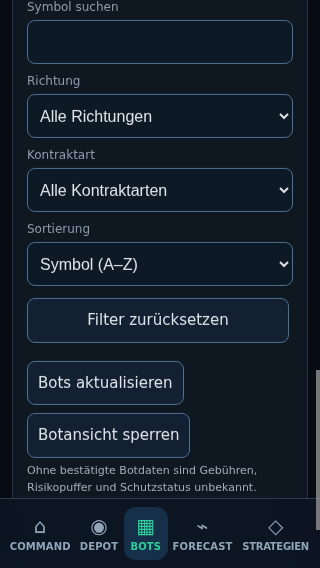
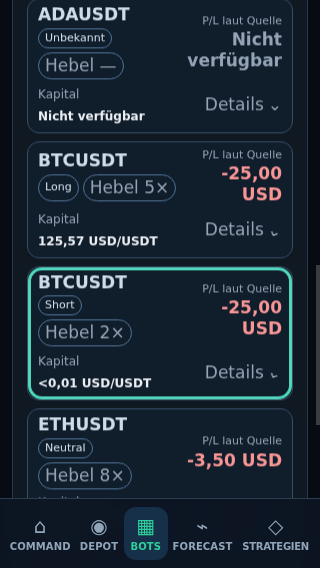
Fix narrow Command row wrapping

diff --git a/test/v11-b11-bot-cockpit-chrome.test.js b/test/v11-b11-bot-cockpit-chrome.test.js
@@ -187,6 +187,21 @@ test('V11 B11 actual shell: mixed synthetic snapshot, investigation context and 
           assert.equal(fresh.cards,6);assert.equal(new Set(fresh.ids).size,6);assert.equal(fresh.duplicate,2);
           assert.equal(fresh.count,true);assert.equal(fresh.commandState,'fresh');assert.equal(fresh.lossButtons,3);
           assert.ok(fresh.cardHeights.every(height=>height>=44&&height<=150),JSON.stringify(fresh.cardGeometry));
+          if(size.width===390){
+            const category=await evaluate(`(()=>{
+              const select=document.getElementById('bot-category-filter');
+              const canvas=document.createElement('canvas'),context=canvas.getContext('2d');
+              context.font=getComputedStyle(select).font;
+              return {label:select.labels[0].innerText,value:select.value,
+                text:select.selectedOptions[0].textContent,width:select.getBoundingClientRect().width,
+                textWidth:context.measureText(select.selectedOptions[0].textContent).width,
+                gridColumn:getComputedStyle(select.parentElement).gridColumn};
+            })()`);
+            assert.deepEqual({label:category.label,value:category.value,text:category.text},
+              {label:'Kontraktart',value:'all',text:'Alle Kontraktarten'});
+            assert.ok(category.width>=category.textWidth+40,JSON.stringify(category));
+            assert.equal(category.gridColumn,'1 / -1',JSON.stringify(category));
+          }
           assert.equal(new Set(fresh.referenceLabels).size,6,'duplicate symbols have distinct accessible names');
           assert.equal(fresh.referencesVisible,false,'full references stay out of collapsed visual cards');
           assert.equal(fresh.tinyPositive,'+<0,01 USD');
@@ -197,6 +212,9 @@ test('V11 B11 actual shell: mixed synthetic snapshot, investigation context and 
           const zero=visibleAmounts.find(row=>row.id.endsWith('f'.repeat(20))).text;
           assert.match(zero,/P\/L laut Quelle\s*Nicht verfügbar/);
           assert.doesNotMatch(zero,/0,00 USD/);
+          const missing=visibleAmounts.find(row=>row.id.endsWith('d'.repeat(20))).text;
+          assert.match(missing,/P\/L laut Quelle\s*Nicht verfügbar/);
+          assert.doesNotMatch(missing,/0,00 USD/);
           const pnlContrast=await evaluate(`(()=>{
             const ratio=(foreground,background)=>{
               const channel=value=>{value/=255;return value<=0.04045?value/12.92:((value+0.055)/1.055)**2.4};
@@ -276,7 +294,9 @@ test('V11 B11 actual shell: mixed synthetic snapshot, investigation context and 
           }
           if(evidence){
             mkdirSync(evidence,{recursive:true});
-            await evaluate("document.querySelector('.bot-overview-filters').scrollIntoView({block:'start'})");
+            await evaluate("document.querySelector('#bot-read-root .bot-card').scrollIntoView({block:'start'})");
+            assert.ok(await evaluate(`[...document.querySelectorAll('#bot-read-root .bot-card')]
+              .filter(card=>{const rect=card.getBoundingClientRect();return rect.top<innerHeight&&rect.bottom>0}).length>0`));
             const image=await call('Page.captureScreenshot',{format:'png',captureBeyondViewport:false});
             writeFileSync(join(evidence,`v11-bot-compact-${size.width}x${size.height}-bots.png`),
               Buffer.from(image.data,'base64'));
@@ -365,10 +385,19 @@ test('V11 B11 actual shell: mixed synthetic snapshot, investigation context and 
             const root=document.getElementById('command-bot-overview');
             const rows=[...root.querySelectorAll('.command-bot-row')];
             return {overflow:document.documentElement.scrollWidth>innerWidth+1,
+              identities:rows.map(row=>{
+                const identity=row.firstElementChild.firstElementChild,range=document.createRange();
+                range.selectNodeContents(identity);
+                return {text:identity.innerText,width:identity.getBoundingClientRect().width,
+                  lines:range.getClientRects().length};
+              }),
               rowHeights:rows.map(row=>row.getBoundingClientRect().height),
               actionHeights:[...root.querySelectorAll('button,summary')].map(node=>node.getBoundingClientRect().height)};
           })()`);
           assert.equal(commandLayout.overflow,false,JSON.stringify(commandLayout));
+          if(size.width===320)assert.ok(commandLayout.identities.every(identity=>
+            identity.text.includes(' · ')&&identity.width>=160&&identity.lines<=2),
+            JSON.stringify(commandLayout.identities));
           assert.ok(commandLayout.actionHeights.every(height=>height>=43.99),JSON.stringify(commandLayout));
           let commandLargeText=null;
           if(size.width===320){
@@ -381,13 +410,27 @@ test('V11 B11 actual shell: mixed synthetic snapshot, investigation context and 
               });
               const rows=[...root.querySelectorAll('.command-bot-row')];
               return {overflow:document.documentElement.scrollWidth>innerWidth+1,
-                overlap:rows.some(row=>row.firstElementChild.getBoundingClientRect().right>
-                  row.lastElementChild.getBoundingClientRect().left+1),
+                overlap:rows.some(row=>{
+                  const button=row.firstElementChild.getBoundingClientRect();
+                  const details=row.lastElementChild.getBoundingClientRect();
+                  return button.left<details.right-1&&button.right>details.left+1&&
+                    button.top<details.bottom-1&&button.bottom>details.top+1;
+                }),
+                identities:rows.map(row=>{
+                  const identity=row.firstElementChild.firstElementChild,range=document.createRange();
+                  range.selectNodeContents(identity);
+                  return {text:identity.innerText,width:identity.getBoundingClientRect().width,
+                    lines:range.getClientRects().length,detailsTop:row.lastElementChild.getBoundingClientRect().top,
+                    buttonBottom:row.firstElementChild.getBoundingClientRect().bottom};
+                }),
                 rowHeights:rows.map(row=>row.getBoundingClientRect().height),
                 actionHeights:[...root.querySelectorAll('button,summary')].map(node=>node.getBoundingClientRect().height)};
             })()`);
             assert.equal(commandLargeText.overflow,false,JSON.stringify(commandLargeText));
             assert.equal(commandLargeText.overlap,false,JSON.stringify(commandLargeText));
+            assert.ok(commandLargeText.identities.every(identity=>identity.text.includes(' · ')&&
+               identity.width>=160&&identity.lines<=2&&identity.detailsTop>=identity.buttonBottom-1),
+               JSON.stringify(commandLargeText.identities));
             assert.ok(commandLargeText.actionHeights.every(height=>height>=43.99),JSON.stringify(commandLargeText));
           }
           if(evidence&&commandLargeText){

diff --git a/v11/index.html b/v11/index.html
@@ -230,6 +230,8 @@
     .command-bot-details{margin:0;border-radius:8px}
     .command-bot-overview .command-bot-details>summary{min-width:44px;white-space:nowrap}
     .command-bot-details p+p{margin-top:5px}
+    @media(min-width:360px) and (max-width:559px){.bot-overview-filters>div:nth-of-type(3){grid-column:1/-1}}
+    @media(max-width:350px){.command-bot-row{grid-template-columns:minmax(0,1fr)}.command-bot-overview .command-bot-jump{display:grid;grid-template-columns:minmax(0,1fr);justify-content:stretch;align-items:start}.command-bot-overview .command-bot-jump>span:first-child{min-width:0;overflow-wrap:normal;word-break:normal}.command-bot-pnl{max-width:100%;overflow-wrap:normal}}
     #app[hidden],#app-access-gate[hidden]{display:none!important}
     .app-access-gate{min-height:100vh;min-height:100dvh;display:grid;place-items:center;padding:24px max(16px,env(safe-area-inset-left,0px))}
     .app-access-card{width:min(100%,440px);padding:24px;border:1px solid #39516b;border-radius:18px;background:linear-gradient(160deg,#172337,#111b29);box-shadow:0 12px 30px #00000025}

diff --git a/test/v11-terminal-entry.test.js b/test/v11-terminal-entry.test.js
@@ -433,6 +433,8 @@ const botPresentationCssAfter=`    .bot-read-view .bot-card-list{list-style:none
     .command-bot-details{margin:0;border-radius:8px}
     .command-bot-overview .command-bot-details>summary{min-width:44px;white-space:nowrap}
     .command-bot-details p+p{margin-top:5px}
+    @media(min-width:360px) and (max-width:559px){.bot-overview-filters>div:nth-of-type(3){grid-column:1/-1}}
+    @media(max-width:350px){.command-bot-row{grid-template-columns:minmax(0,1fr)}.command-bot-overview .command-bot-jump{display:grid;grid-template-columns:minmax(0,1fr);justify-content:stretch;align-items:start}.command-bot-overview .command-bot-jump>span:first-child{min-width:0;overflow-wrap:normal;word-break:normal}.command-bot-pnl{max-width:100%;overflow-wrap:normal}}
 `;
 const botReadControls=`        <div class="bot-access-controls">
           <label for="bot-read-token">Asset-Watch-Link oder Meridian-Lesepasswort</label>

diff --git a/docs/v11/BOT_PRESENTATION_DELIVERY.md b/docs/v11/BOT_PRESENTATION_DELIVERY.md
@@ -10,7 +10,9 @@ count semantics, and read-only behavior are unchanged.
 ## Synthetic visual comparison
 
 Before and after images use the same six-bot synthetic fixture, including
-duplicate BTC symbols, unavailable and zero P/L, and a tiny nonzero P/L.
+duplicate BTC symbols, negative P/L, missing and zero-as-unconfirmed P/L, and a
+tiny nonzero P/L. The refreshed after images show the card list; the original
+before images are unchanged.
 
 | Viewport | Before | After |
 | --- | --- | --- |
@@ -18,6 +20,11 @@ duplicate BTC symbols, unavailable and zero P/L, and a tiny nonzero P/L.
 | 390×844 | [before](evidence/b11-bots-presentation/before-390x844.png) | [after](evidence/b11-bots-presentation/after-390x844.png) |
 
 [After at 320×568 with enlarged text](evidence/b11-bots-presentation/after-320x568-enlarged-text.png)
+
+At 320px, Command rows stack the identity, signed P/L, and native Details
+disclosure. The identity remains on one rendered line at normal and 1.35×
+descendant text sizes; the 390px contract-type filter gives the full selected
+“Alle Kontraktarten” option its own grid row.
 
 The 1.35× browser check scales computed font sizes only on descendants of the
 Bot cards and Command overview; it does not enlarge the whole page or global
@@ -46,10 +53,12 @@ preview remains a draft.
 
 [Command at 320×568 with 1.35× text](evidence/b11-bots-presentation/command-320x568-enlarged-text.png)
 
-For the fixture's three negative-P/L Command rows, heights measured 61px at
-320px width, 46–61px at 375px, and 46px at 390px, 430px, and 1440px. At 320px
-with 1.35× text, the rows grew naturally to 153.56–179.88px without overlap or
-horizontal overflow; row controls remained at least 44px tall.
+For the fixture's three negative-P/L Command rows, heights measured 121px at
+320px width, 46–61px at 375px, and 46px at 390px, 430px, and 1440px. At 320px,
+identity text occupied 244px and one line. With 1.35× descendant text, rows
+grew naturally to 134.63px; identity remained one line and Details stayed below
+the jump button without overlap or horizontal overflow. Row controls remained
+at least 44px tall.
 
 Actual-shell Chromium checks passed at 320×568, 375×667, 390×844, 430×932
 and 1440×900. The largest collapsed card measured 148.39px at 320px width;
@@ -63,10 +72,10 @@ on new, locked, stale and error states.
 Focused validation commands and totals:
 
 - `node --test test/v11-bot-read-view.test.js` — 33 tests passed.
-- `node --test test/v11-b11-bot-cockpit-chrome.test.js` — 1 actual-shell
-  Chromium test passed, including five standard viewports and generated
-  20-bot runs at 320px and 390px.
-- `node --test test/v11-terminal-entry.test.js` — 3 tests passed, including
+- `CHROME_BIN=/usr/bin/chromium V11_B11_EVIDENCE_DIR=/tmp/m11-visual-evidence node --experimental-websocket test/v11-b11-bot-cockpit-chrome.test.js`
+  — 1 actual-shell Chromium test passed, including five standard viewports and
+  generated 20-bot runs at 320px and 390px.
+- `node --experimental-websocket test/v11-terminal-entry.test.js` — 3 tests passed, including
   five viewport runs and exact reversible source-delta checks.
 
 All screenshots and browser data are synthetic. These checks do not establish
